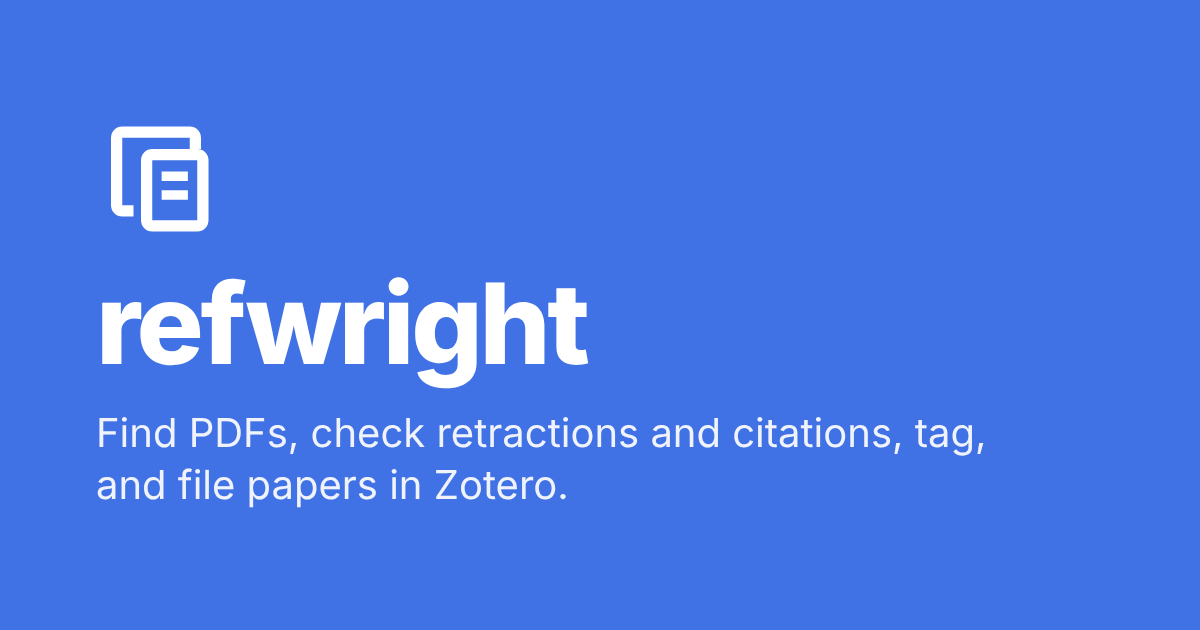
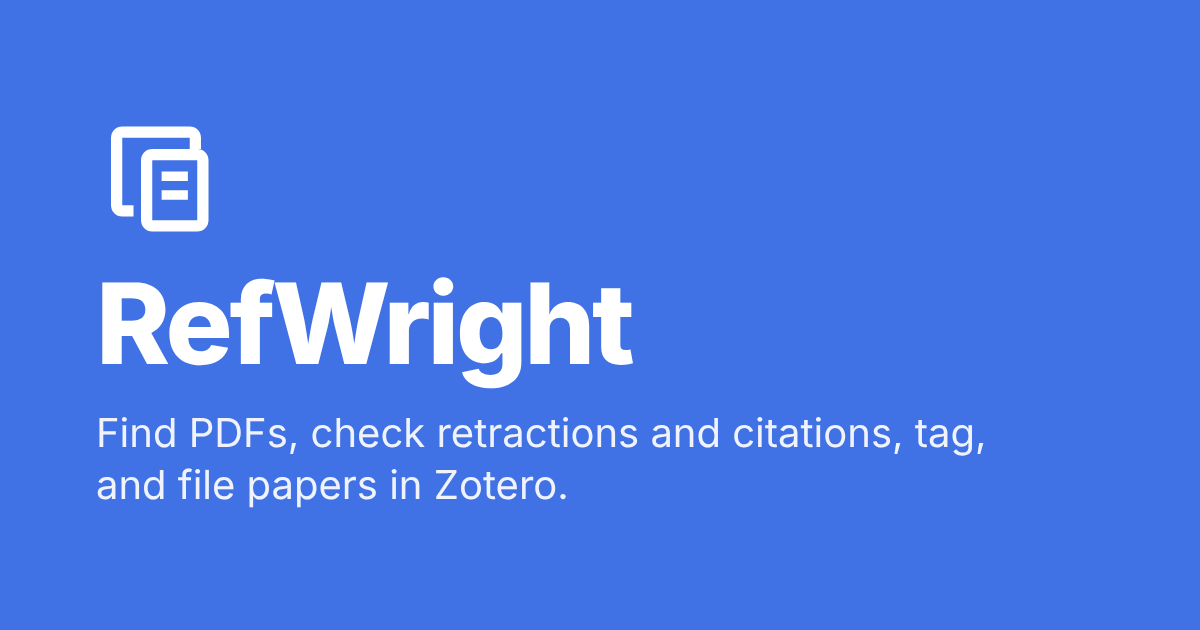
RefWright branding, AI summary note title, review window scroll and pinned footer; 0.4.5

Changed region(s): [[0.0617, 0.4222, 0.5242, 0.6333]]

diff --git a/src/zotero/actions.ts b/src/zotero/actions.ts
@@ -33,7 +33,7 @@ function toast(
   text: string,
   type: "success" | "default" | "error" = "default",
 ) {
-  new ztoolkit.ProgressWindow(addon.data.config.addonName, {
+  new ztoolkit.ProgressWindow(addon.data.config.addonDisplayName, {
     closeOnClick: true,
     closeTime: 3500,
   })
@@ -61,7 +61,7 @@ async function _runTask(task: Task, items: Zotero.Item[]) {
   }
   const run = startRun(task, regular);
   openRefwrightWindow("report.xhtml", {
-    title: `refwright — ${task === "pdf" ? getString("task-pdf") : task === "preview" ? getString("task-preview") : task === "retraction" ? getString("task-retraction") : task === "citation" ? getString("task-citation") : getString("task-full")}`,
+    title: `RefWright — ${task === "pdf" ? getString("task-pdf") : task === "preview" ? getString("task-preview") : task === "retraction" ? getString("task-retraction") : task === "citation" ? getString("task-citation") : getString("task-full")}`,
     labels: reportLabels(),
     rows: run.rows,
     finished: () => run.finished,
@@ -92,7 +92,7 @@ async function _reviewAction(
   const items = regularItems(input);
   if (!items.length) return toast(getString("tags-none-selected"));
   const abort = new AbortController();
-  const pw = new ztoolkit.ProgressWindow(addon.data.config.addonName, {
+  const pw = new ztoolkit.ProgressWindow(addon.data.config.addonDisplayName, {
     closeOnClick: false,
     closeTime: -1,
   })
@@ -236,7 +236,7 @@ async function _summarizeAction(input: Zotero.Item[]) {
     if (!ok) return;
   }
   const abort = new AbortController();
-  const pw = new ztoolkit.ProgressWindow(addon.data.config.addonName, {
+  const pw = new ztoolkit.ProgressWindow(addon.data.config.addonDisplayName, {
     closeOnClick: true,
     closeTime: -1,
   })
@@ -270,7 +270,7 @@ async function _citationsAction(input: Zotero.Item[]) {
   const items = regularItems(input);
   if (!items.length) return toast(getString("tags-none-selected"));
   const abort = new AbortController();
-  const pw = new ztoolkit.ProgressWindow(addon.data.config.addonName, {
+  const pw = new ztoolkit.ProgressWindow(addon.data.config.addonDisplayName, {
     closeOnClick: true,
     closeTime: -1,
   })
@@ -311,7 +311,7 @@ async function _relatedBatchAction(input: Zotero.Item[]) {
   const items = regularItems(input);
   if (!items.length) return toast(getString("tags-none-selected"));
   const abort = new AbortController();
-  const pw = new ztoolkit.ProgressWindow(addon.data.config.addonName, {
+  const pw = new ztoolkit.ProgressWindow(addon.data.config.addonDisplayName, {
     closeOnClick: true,
     closeTime: -1,
   })
@@ -376,7 +376,7 @@ async function _relatedBatchAction(input: Zotero.Item[]) {
 }
 
 function progressLine(text: string) {
-  return new ztoolkit.ProgressWindow(addon.data.config.addonName, {
+  return new ztoolkit.ProgressWindow(addon.data.config.addonDisplayName, {
     closeOnClick: true,
     closeTime: -1,
   })

diff --git a/src/core/prompts.ts b/src/core/prompts.ts
@@ -127,7 +127,9 @@ export function routeUserPrompt(
 /** rough token estimate shown before an AI tag scan */
 export const estimateTokens = (s: string) => Math.ceil(s.length / 4);
 
-export const SUMMARY_NOTE_TITLE = "refwright summary";
+export const SUMMARY_NOTE_TITLE = "AI summary";
+/** the title notes had before 0.4.5; still recognised so they are not summarised twice */
+const LEGACY_SUMMARY_TITLE = "refwright summary";
 
 export function summarySystem(language: string, sentences = 4): string {
   return `You summarize academic papers for a researcher's reference library. Write one plain-text paragraph of ${sentences} sentences or fewer in ${language || "English"}: the question, the method, the main result, and the main limitation if stated. Use only the supplied text. If the text does not support a point, leave it out. No headings, bullets, markdown, or preamble.`;
@@ -160,7 +162,9 @@ const esc = (t: string) =>
 export const summaryNoteHtml = (summary: string, source: string) =>
   `<h1>${SUMMARY_NOTE_TITLE}</h1><p>${esc(summary)}</p><p><i>${esc(source)}</i></p>`;
 export const isSummaryNote = (html: string) =>
-  html.includes(`<h1>${SUMMARY_NOTE_TITLE}</h1>`);
+  [SUMMARY_NOTE_TITLE, LEGACY_SUMMARY_TITLE].some((t) =>
+    html.includes(`<h1>${t}</h1>`),
+  );
 
 export const CLUSTER_NAME_SYSTEM =
   'You name groups of papers for a reference library. For each numbered group reply with one short collection name (2 to 4 words, Title case). Reply "" if the group is not one coherent topic. If a group clearly belongs in one of the existing collections, reply with that collection\'s exact name. Reply with JSON only: {"names":["...","..."]} in group order.';

diff --git a/src/ui/review.ts b/src/ui/review.ts
@@ -236,27 +236,28 @@ window.addEventListener("load", () => {
     items.forEach((i) => (i.on = on));
     render();
   });
-  const dlg = document.querySelector("dialog") as any;
-  dlg.getButton("accept").label = L.apply;
-  dlg.getButton("cancel").label = L.cancel;
-  const rb = dlg.getButton("extra2");
-  rb.label = L.retry;
-  rb.hidden = !c.retry;
+  $("apply").textContent = L.apply;
+  $("cancel").textContent = L.cancel;
   $("all").textContent = L.toggleAll;
-  document.addEventListener("dialogaccept", async (e) => {
-    e.preventDefault();
-    dlg.getButton("accept").disabled = true;
+  $("cancel").addEventListener("click", () => window.close());
+  document.addEventListener("keydown", (e) => {
+    if (e.key === "Escape") window.close();
+  });
+  $("apply").addEventListener("click", async () => {
+    ($("apply") as HTMLButtonElement).disabled = true;
     try {
       await c.apply(results());
       window.close();
     } catch (err: any) {
       $("note").textContent = String(err?.message ?? err);
       $("note").hidden = false;
-      dlg.getButton("accept").disabled = false;
+      ($("apply") as HTMLButtonElement).disabled = false;
     }
   });
   if (c.retry) {
-    document.addEventListener("dialogextra2", async () => {
+    $("retry").textContent = L.retry;
+    $("retry").hidden = false;
+    $("retry").addEventListener("click", async () => {
       items = await c.retry!();
       render();
     });

diff --git a/src/zotero/engine.ts b/src/zotero/engine.ts
@@ -153,7 +153,7 @@ export function startRun(task: Task, input: Zotero.Item[], win?: Window): Run {
     run.finished = true;
     notify();
     if (attached)
-      new ztoolkit.ProgressWindow(addon.data.config.addonName, {
+      new ztoolkit.ProgressWindow(addon.data.config.addonDisplayName, {
         closeOnClick: true,
         closeTime: 4000,
       })
@@ -414,7 +414,7 @@ async function reportNote(
     if (note) await note.eraseTx();
     return;
   }
-  const html = `<h2>refwright report</h2><ul>${[...lines].map(([k, v]) => `<li data-kind="${k}">${v}</li>`).join("")}</ul>`;
+  const html = `<h2>RefWright report</h2><ul>${[...lines].map(([k, v]) => `<li data-kind="${k}">${v}</li>`).join("")}</ul>`;
   const n = note ?? new Zotero.Item("note");
   if (!note) {
     n.libraryID = item.libraryID;

diff --git a/src/zotero/ai.ts b/src/zotero/ai.ts
@@ -45,7 +45,7 @@ export function chat(
 ) {
   const { p, cfg } = cfgFor(g("ai.provider"));
   if (p.needsKey && !cfg.key)
-    throw new Error(`${p.label}: add an API key in refwright settings`);
+    throw new Error(`${p.label}: add an API key in RefWright settings`);
   return complete(
     zoteroHttp,
     p,
@@ -63,7 +63,7 @@ export function embedTexts(texts: string[], signal?: AbortSignal) {
   const model = g(`ai.${p.id}.embedModel`) || p.embedModel || "";
   if (!model) throw new Error(`${p.label}: set an embedding model`);
   if (p.needsKey && !cfg.key)
-    throw new Error(`${p.label}: add an API key in refwright settings`);
+    throw new Error(`${p.label}: add an API key in RefWright settings`);
   return embed(zoteroHttp, p, { ...cfg, model }, texts, signal);
 }
 

diff --git a/addon/content/refwright.css b/addon/content/refwright.css
@@ -666,16 +666,19 @@
 }
 
 /* batch related window: a plain window, one flex column, footer always visible */
-.refwright-rel {
+.refwright-rel,
+.refwright-flexwin {
   display: flex;
   flex-direction: column;
 }
-.refwright-rel .refwright-shell {
+.refwright-rel .refwright-shell,
+.refwright-flexwin .refwright-shell {
   flex: 1 1 0;
   height: auto;
   min-height: 360px;
 }
-.refwright-rel .refwright-grow {
+.refwright-rel .refwright-grow,
+.refwright-flexwin .refwright-grow {
   flex: 1;
   min-width: 0;
 }

diff --git a/src/zotero/tagManager.ts b/src/zotero/tagManager.ts
@@ -123,7 +123,7 @@ export async function scanSimilar(
   signal: AbortSignal,
 ): Promise<DupGroup[]> {
   if (!aiReady())
-    throw new Error("Add an API key and model in refwright settings > AI");
+    throw new Error("Add an API key and model in RefWright settings > AI");
   const { send, expand } = candidates(tags);
   const per = Math.max(20, Number(g("tm.perRequest")) || 150);
   const reqs = Math.max(1, Number(g("tm.requests")) || 3);

diff --git a/src/zotero/clusters.ts b/src/zotero/clusters.ts
@@ -120,7 +120,7 @@ export async function suggestClusters(
   const groups = await offlineClusters(libraryID);
   if (!ai || !groups.length) return { items: groups };
   if (!aiReady())
-    throw new Error("Add an API key and model in refwright settings > AI");
+    throw new Error("Add an API key and model in RefWright settings > AI");
   try {
     return { items: await nameWithAi(groups, libraryID, signal) };
   } catch (e: any) {

diff --git a/unit/summary.test.ts b/unit/summary.test.ts
@@ -17,4 +17,8 @@ describe("summary", () => {
     expect(isSummaryNote(h)).toBe(true);
     expect(isSummaryNote("<p>x</p>")).toBe(false);
   });
+  it("titles new notes AI summary and still finds the old title", () => {
+    expect(summaryNoteHtml("s", "src")).toContain("<h1>AI summary</h1>");
+    expect(isSummaryNote("<h1>refwright summary</h1><p>old</p>")).toBe(true);
+  });
 });

diff --git a/src/zotero/tagging.ts b/src/zotero/tagging.ts
@@ -222,7 +222,7 @@ export async function suggestTags(
   }
 
   if (!aiReady())
-    throw new Error("Add an API key and model in refwright settings > AI");
+    throw new Error("Add an API key and model in RefWright settings > AI");
   const batch = Math.max(1, Number(g("ai.batchSize")) || 5);
   const groups: Zotero.Item[][] = [];
   for (let i = 0; i < items.length; i += batch)

diff --git a/src/zotero/guard.ts b/src/zotero/guard.ts
@@ -5,7 +5,7 @@ export function guard<A extends unknown[]>(fn: (...a: A) => unknown) {
       return await fn(...a);
     } catch (e: any) {
       Zotero.logError(e);
-      new ztoolkit.ProgressWindow(addon.data.config.addonName, {
+      new ztoolkit.ProgressWindow(addon.data.config.addonDisplayName, {
         closeOnClick: true,
         closeTime: 9000,
       })

diff --git a/src/zotero/inbox.ts b/src/zotero/inbox.ts
@@ -16,7 +16,7 @@ let busy = false;
 const burst = new Set<number>();
 
 function toast(text: string) {
-  new ztoolkit.ProgressWindow(addon.data.config.addonName, {
+  new ztoolkit.ProgressWindow(addon.data.config.addonDisplayName, {
     closeOnClick: true,
     closeTime: 9000,
   })
